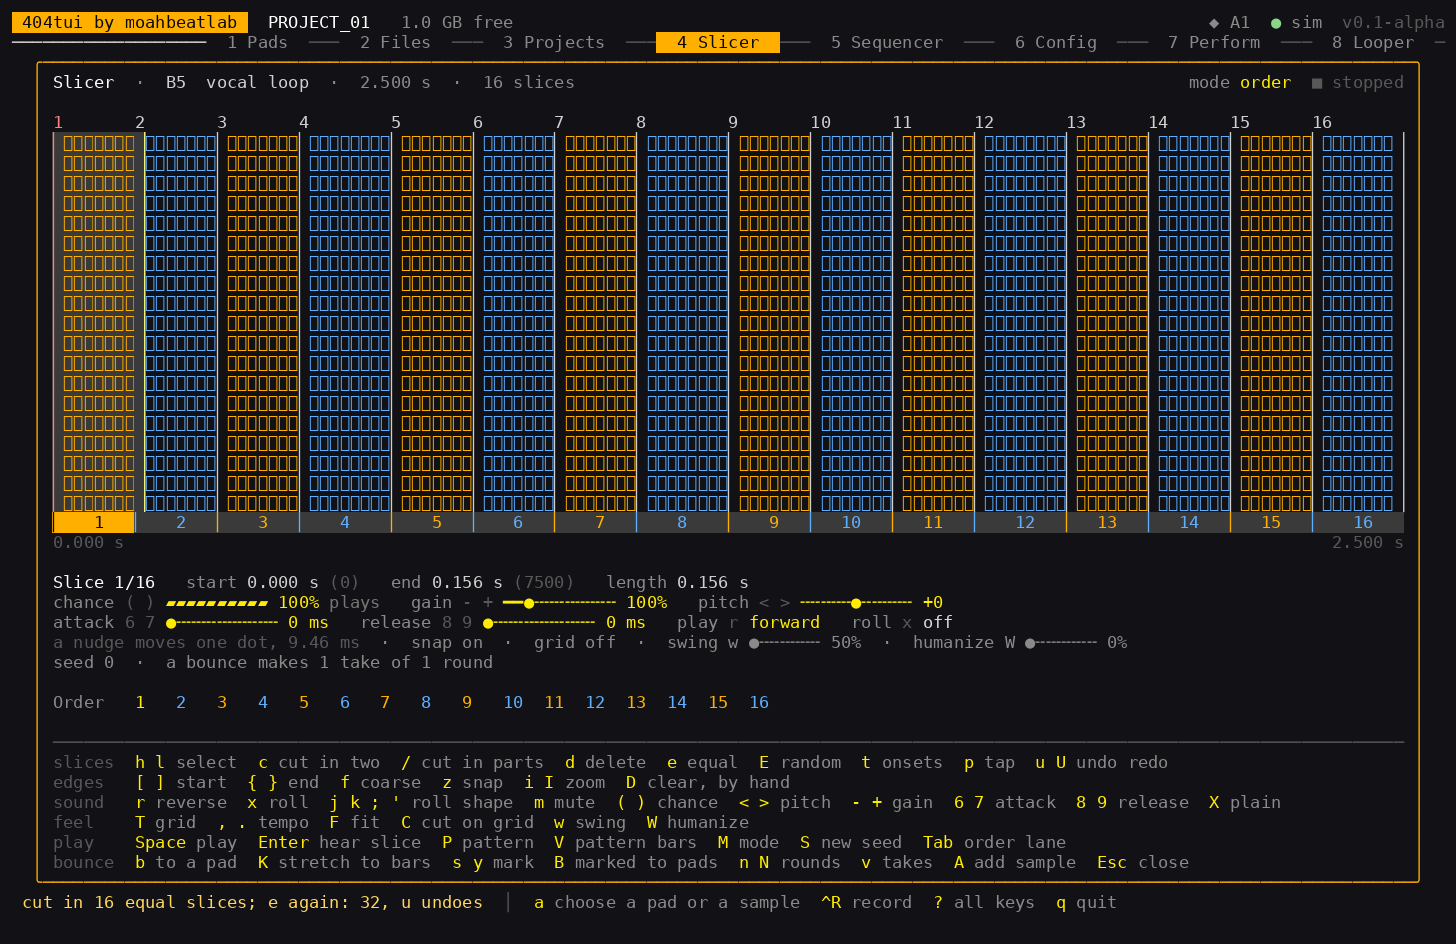
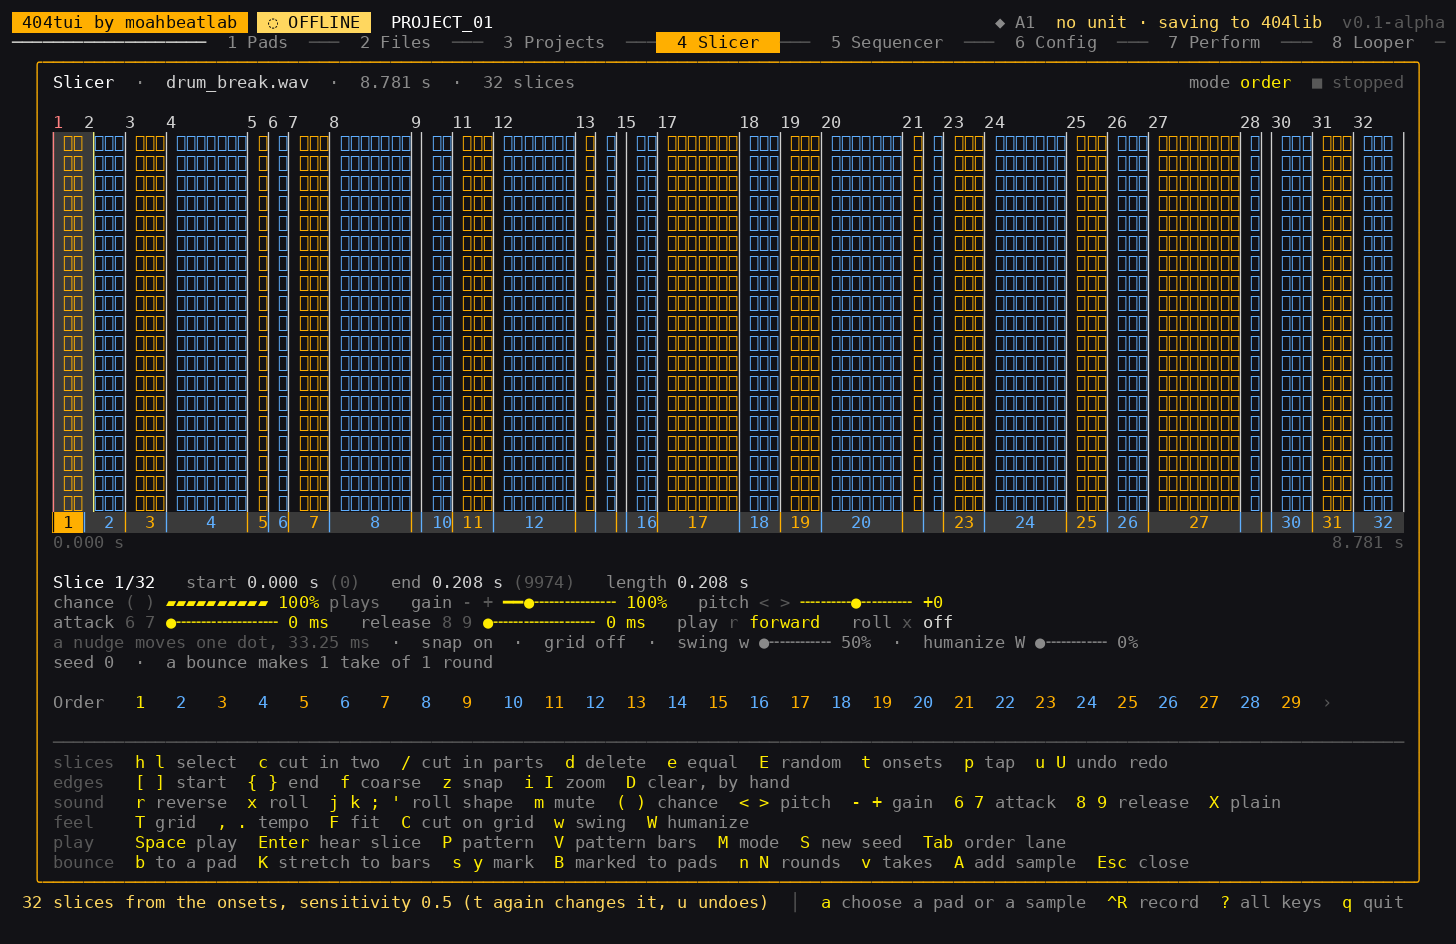
docs: slice a real drum break in the Slicer shots
The previous Slicer shot was taken on the sim's own sample, which is a
generated sine: a constant-amplitude tone whose waveform renders as an even
block with no peaks. The view was right but the picture read as an empty
sample, which is not what the slicer looks like on real material.

Take the shots from a real recording instead. A simulated unit can be built
from a real folder with -offline, so the break is loaded onto a simulated SD
card and opened with Z in the file view:

- slicer.png: drum_break.wav, 8.781 s, 8 slices, the peaks the drum hits
- slicer-slices.png: after t (onsets), 32 slices, boundaries on the hits

The break is Wikimedia Commons' Drum beat.ogg (CC), converted to 44.1 kHz
16-bit WAV -- the decoders take WAV, AIFF, FLAC and MP3, not OGG. The recipe
and the reason the sim's own samples are not good enough for this shot are in
docs/img/README.md.

diff --git a/docs/img/README.md b/docs/img/README.md
@@ -9,12 +9,35 @@ the Slicer and the Sequencer show their working state and not an empty one.
 | `pads.png` | `1` Pads | [pads.md](../pads.md) |
 | `files.png` | `2` Files | [files.md](../files.md) |
 | `projects.png` | `3` Projects | [files.md](../files.md) |
-| `slicer.png` | `4` Slicer (B5 `vocal loop`, 8 slices) | [slicer.md](../slicer.md) |
-| `slicer-slices.png` | `4` Slicer (after `e`, 16 slices) | [slicer.md](../slicer.md) |
+| `slicer.png` | `4` Slicer (`drum_break.wav`, 8 slices) | [slicer.md](../slicer.md) |
+| `slicer-slices.png` | `4` Slicer (after `t` onsets, 32 slices) | [slicer.md](../slicer.md) |
 | `sequencer.png` | `5` Sequencer (pattern B2 open) | [sequencer.md](../sequencer.md) |
 | `config.png` | `6` Config | [config.md](../config.md) |
 | `perform.png` | `7` Perform | [perform.md](../perform.md) |
 | `looper.png` | `8` Looper | [looper.md](../looper.md) |
+
+## The samples in the shots
+
+The sim's own material is generated tones: a constant-amplitude sine. Its waveform renders as an even
+block with no peaks, which reads as an empty placeholder even though the view is correct. The Slicer
+shots therefore use a **real recording** instead, so the picture shows the sound.
+
+A simulated unit can be built from a real folder — `sp404 -offline <dir>` runs `sim.OpenFolder` over
+it — so the break is loaded from a folder, not from the sim's built-in tones:
+
+    mkdir -p /tmp/404lib/PROJECT_01 /tmp/404lib/SD/IMPORT
+    # a folder holding PADCONF.BIN is a project; a valid blank one can be made
+    # with formats.NewPadconf(nil, "PROJECT_01").Bytes()
+    cp drum_break.wav /tmp/404lib/SD/IMPORT/
+    tmux -L shots new-session -d -s ui -x 140 -y 45 "/tmp/sp404 -offline /tmp/404lib"
+
+Then tab `2` (Files), `Tab` into the file column, and `Z` on the WAV — the Slicer opens on it. `t`
+finds the onsets (32 on this break), which is the clearest proof the boundaries follow the audio.
+
+The break used is Wikimedia Commons' **Drum beat.ogg** (CC), converted to 44.1 kHz 16-bit WAV. Only
+WAV, AIFF, FLAC and MP3 are decoded, so an OGG has to be converted first:
+
+    ffmpeg -i drum_beat.ogg -ar 44100 -ac 2 -c:a pcm_s16le drum_break.wav
 
 ## How they are taken
 
@@ -31,7 +54,7 @@ ended a work session before; `tmux -L shots kill-server` only touches the captur
 The Slicer and the Sequencer need keys, not just the tab number, and the view settles a few seconds
 after each one — send the key, **wait, then capture**, or the shot lands on the previous state:
 
-    # Slicer on the sim's own sample: tab 4, `a`, then `p` (a pad), pick B5, Enter
+    # Slicer on a real file: -offline (above), tab 2, Tab, Z, then ~10 s
     # Sequencer on the sim's own pattern: tab 5, `a`, then Enter on slot 2 (B2)
     #   the pattern chooser loads asynchronously; give it ~8 s before the shot
 

diff --git a/docs/slicer.md b/docs/slicer.md
@@ -9,18 +9,23 @@ them searchable.
 **Open it:** `Z` on a pad (Pads) or on an audio file (Files), or tab `4` then `a`: `p` chooses a pad,
 `f` a new sample from the file view. `Esc` closes it; it stays as it was when you come back.
 
-![The Slicer on a pad's sample: the waveform with its slice boundaries, the slice in front and its controls, and the order lane](img/slicer.png)
+![The Slicer on a real drum break: the waveform with its slice boundaries, the slice in front and its controls, and the order lane](img/slicer.png)
 
-A pad's sample open in the slicer: the waveform across the top with the slice boundaries drawn on it
-and the slices numbered, the slice in front below it with its start, end and length, its chance, gain,
-pitch, attack and release, and the order lane the slices play in. The screenshot is of the simulated
-device's `vocal loop` (B5, 2.500 s) in `p` a pad — the same picture comes from any sample.
+A drum break open in the slicer: the waveform across the top with the slice boundaries drawn on it and
+the slices numbered, the slice in front below it with its start, end and length, its chance, gain,
+pitch, attack and release, and the order lane the slices play in. The peaks are the drum hits and the
+gaps between them are audible, so the picture is the sound, not a placeholder. The screenshot is of
+`drum_break.wav` (8.781 s) on the SD card, opened with `Z` in the file view.
 
-![Sixteen slices after `e` (equal), the boundaries an even division of the sample](img/slicer-slices.png)
+![Thirty-two slices found on the onsets with `t`, the boundaries following the drum hits](img/slicer-slices.png)
 
-`e` cuts the sample into equal slices — sixteen here — so the boundaries stop following the sound and
-divide the length evenly. `t` (onsets) cuts where the sound starts instead, `/` cuts in 2, 3, 4, 6 or
-8 parts, and `c` cuts one slice in two.
+`t` (onsets) cuts where the sound starts rather than where the sample divides evenly — 32 slices here,
+with the boundaries sitting on the hits. `e` cuts equal slices instead, so the boundaries stop
+following the sound and divide the length evenly, `/` cuts in 2, 3, 4, 6 or 8 parts, and `c` cuts one
+slice in two.
+
+Both shots are the **simulated** device, `sp404 -offline <folder>` on a folder holding that WAV; see
+[`img/README.md`](img/README.md) for how to reproduce them.
 
 
 ## Keys by group
